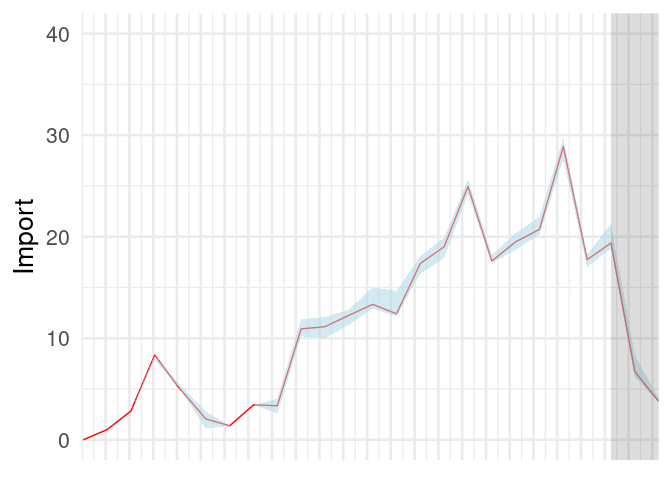
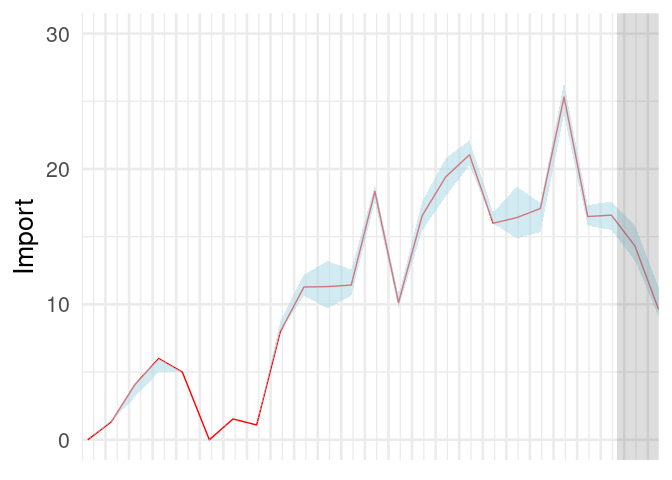
Updated dataset (2021-06-14). Also had to hack names in input files. See .rmd for details

diff --git a/UK_results.md b/UK_results.md
@@ -1,6 +1,6 @@
 Results - B.1.1.7, “Alpha variant”
 ================
-07/06/2021
+14/06/2021
 
 Phylogeographic mapping
 
@@ -27,11 +27,11 @@ lineage and TMRCA denotes the age of the lineage.
 
 ##### Table 1. Estimated number of infections in Norway resulting from import and local transmission based on the phylogeographic analyses in Figure 1.
 
-|                    |      2.5% |       50% |    97.5% |
-|:-------------------|----------:|----------:|---------:|
-| Import             |  282.6750 |  286.5000 |  291.775 |
-| Local transmission | 3649.2250 | 3654.5000 | 3658.325 |
-| Import / Total     |    0.0717 |    0.0727 |    0.074 |
+|                    |      2.5% |       50% |     97.5% |
+|:-------------------|----------:|----------:|----------:|
+| Import             |  293.4500 |  298.5000 |  305.8750 |
+| Local transmission | 3513.1250 | 3520.5000 | 3525.5500 |
+| Import / Total     |    0.0768 |    0.0782 |    0.0801 |
 
 Next, we estimate the fraction of introductions relative to local
 transmission over time. In these and subsequent analyses it is important
